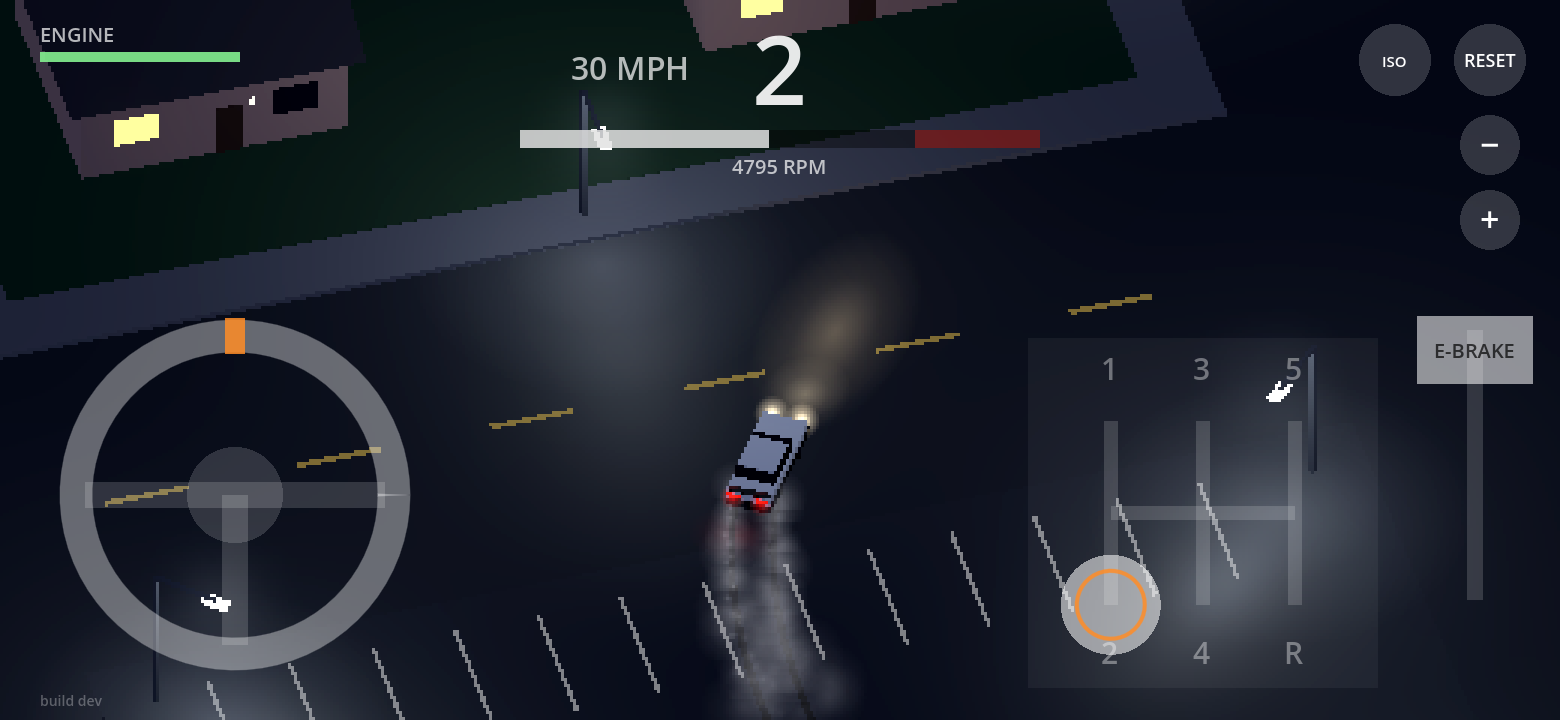
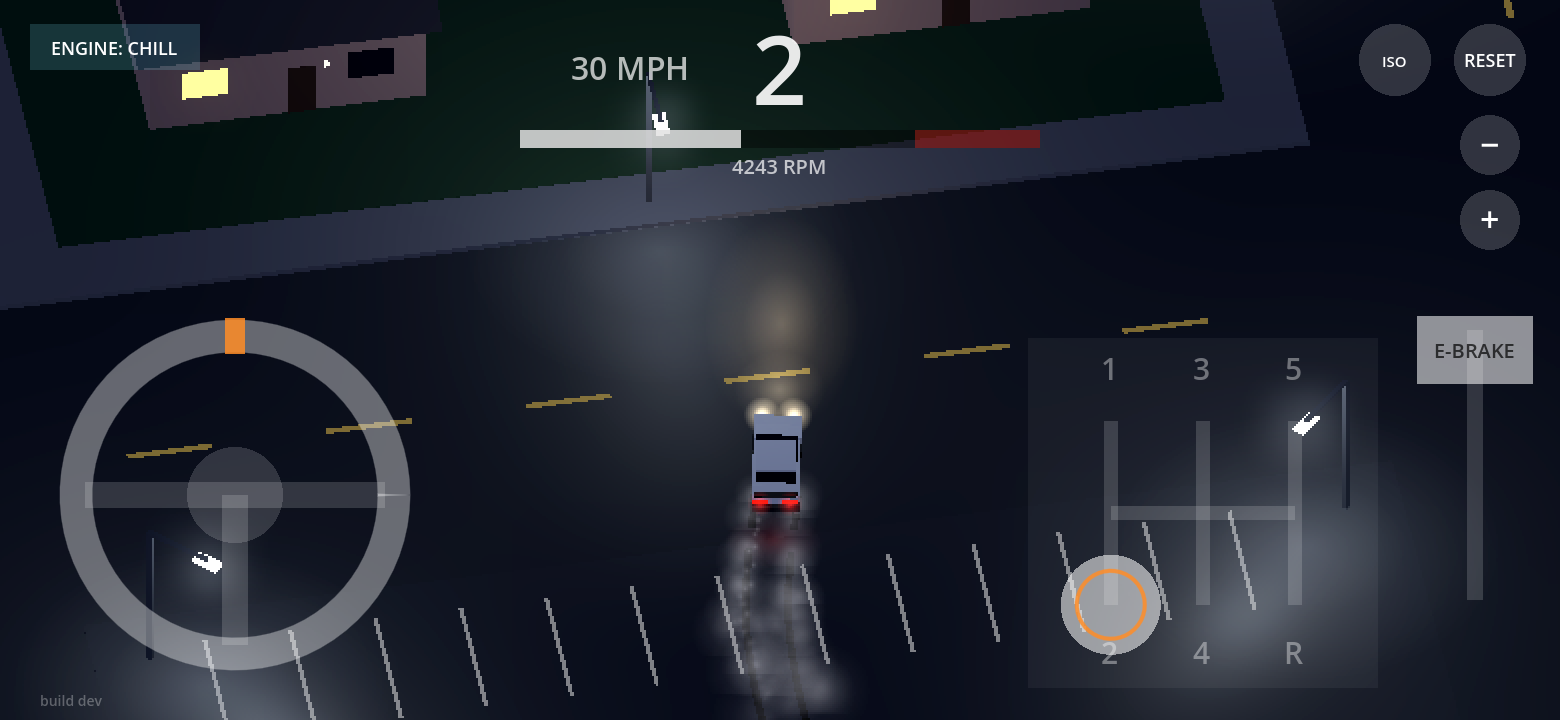
Chill engine mode by default (rev limiter, no damage) + finer pixels
- New CHILL/RISKY toggle top-left, saved between sessions. Chill cuts power
  at 7900 rpm and crackles; no health bar or SHIFT! warning. Risky is the old
  blow-up behaviour.
- World renders at 360 px tall instead of 240 (PIXEL_SHRINK 3 -> 2)

Claude-Session: https://claude.ai/code/session_01X5D3N9oUK59uFhYSHv3wU5

diff --git a/README.md b/README.md
@@ -41,7 +41,7 @@ Built in Godot 4.7.
 - **Slow down** by downshifting (engine braking) or knocking it into **neutral**.
 - **Drift:** get going in 2nd, flick the wheel and tug the e-brake, then countersteer. 2nd is the drift gear; it has just enough power to keep the rear sliding.
 - **Forgiving by default:** the auto gas keeps the rear tires hooked up while you're just driving, and steering tightens up with speed, so the car only slides when you start a drift with the e-brake. Once you're sliding you get full power to hold it, a little countersteer assist, and past about 35° the car resists spinning out.
-- **Engine damage:** sitting on the limiter (~7900+ rpm) wears it down over about 25 seconds, and a money shift (way past 9800 rpm) kills it fast. Watch for **SHIFT!**
+- **Engine: CHILL (default):** a rev limiter. It bounces off redline and crackles, but never blows. Tap **ENGINE** (top-left) to switch to **RISKY**: no limiter, a health bar, and sitting on the limiter (~25s) or a money shift (way past 9800 rpm) blows it. Your pick is remembered.
 - **Vibration:** gear changes buzz on the Thor and Android. On iPhone (iOS 18+) you get a haptic tick when your thumb lifts off the shifter; Safari doesn't allow anything better.
 
 ## How it's built
@@ -75,7 +75,7 @@ In `scripts/car.gd`:
 - E-brake: `handbrake_grip_scale` (lower = looser rear), `handbrake_brake` (higher = scrubs more speed)
 
 In `scripts/motor.gd`: `damage_rpm`, `sustained_damage`, `money_shift_rpm`.
-Pixel size: `PIXEL_SHRINK` in `scripts/main.gd` (higher = chunkier).
+Pixel size: `PIXEL_SHRINK` in `scripts/main.gd` (2 = 360 px tall world; higher = chunkier).
 
 ## Next up
 
